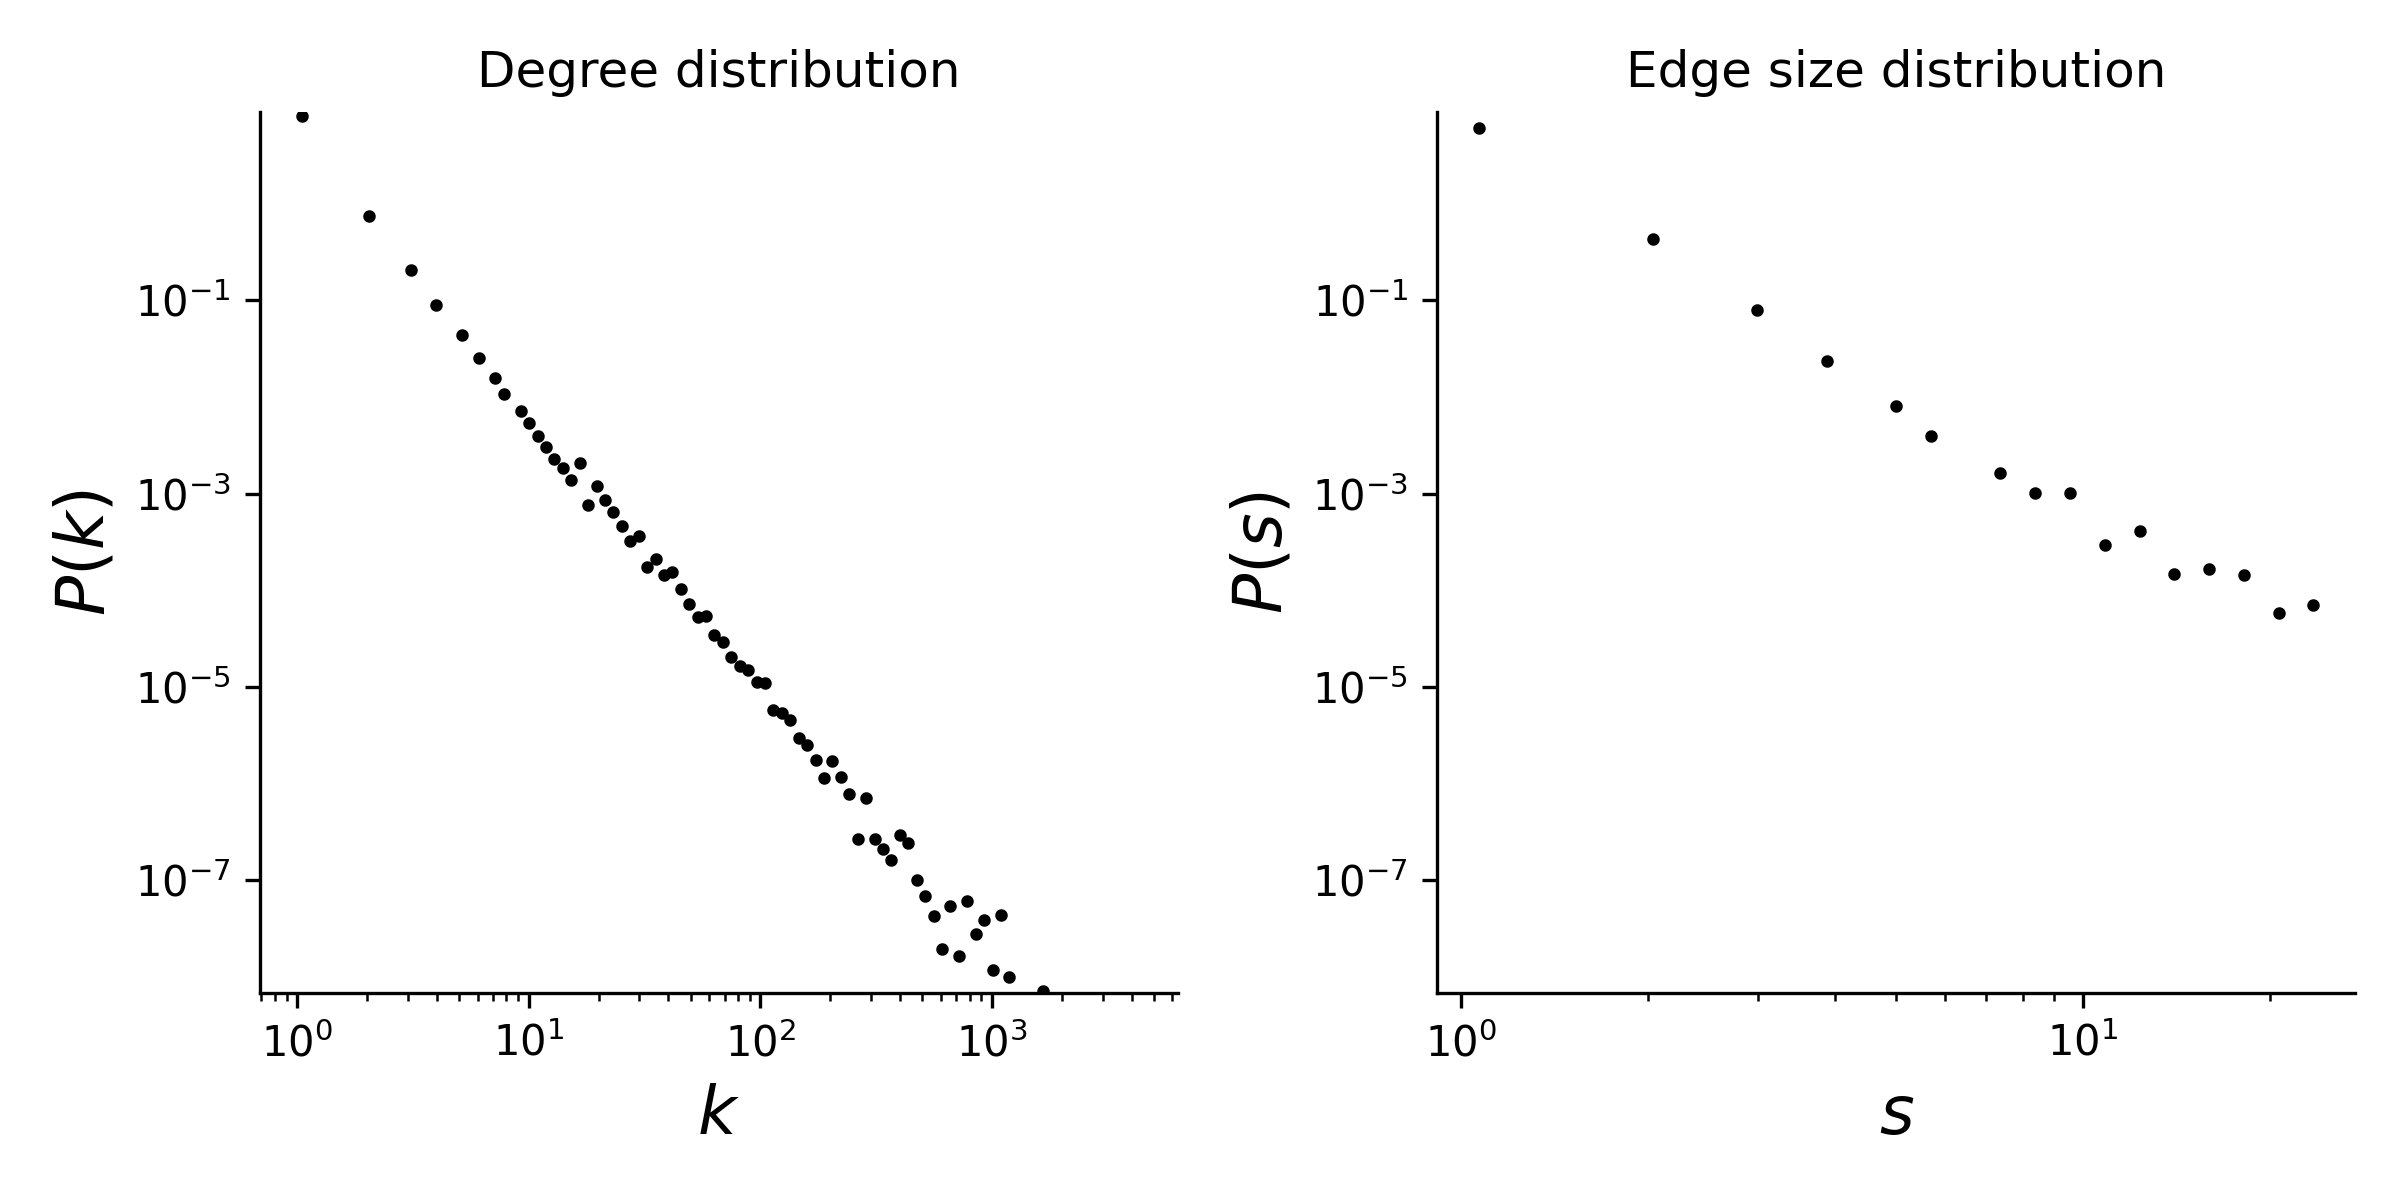
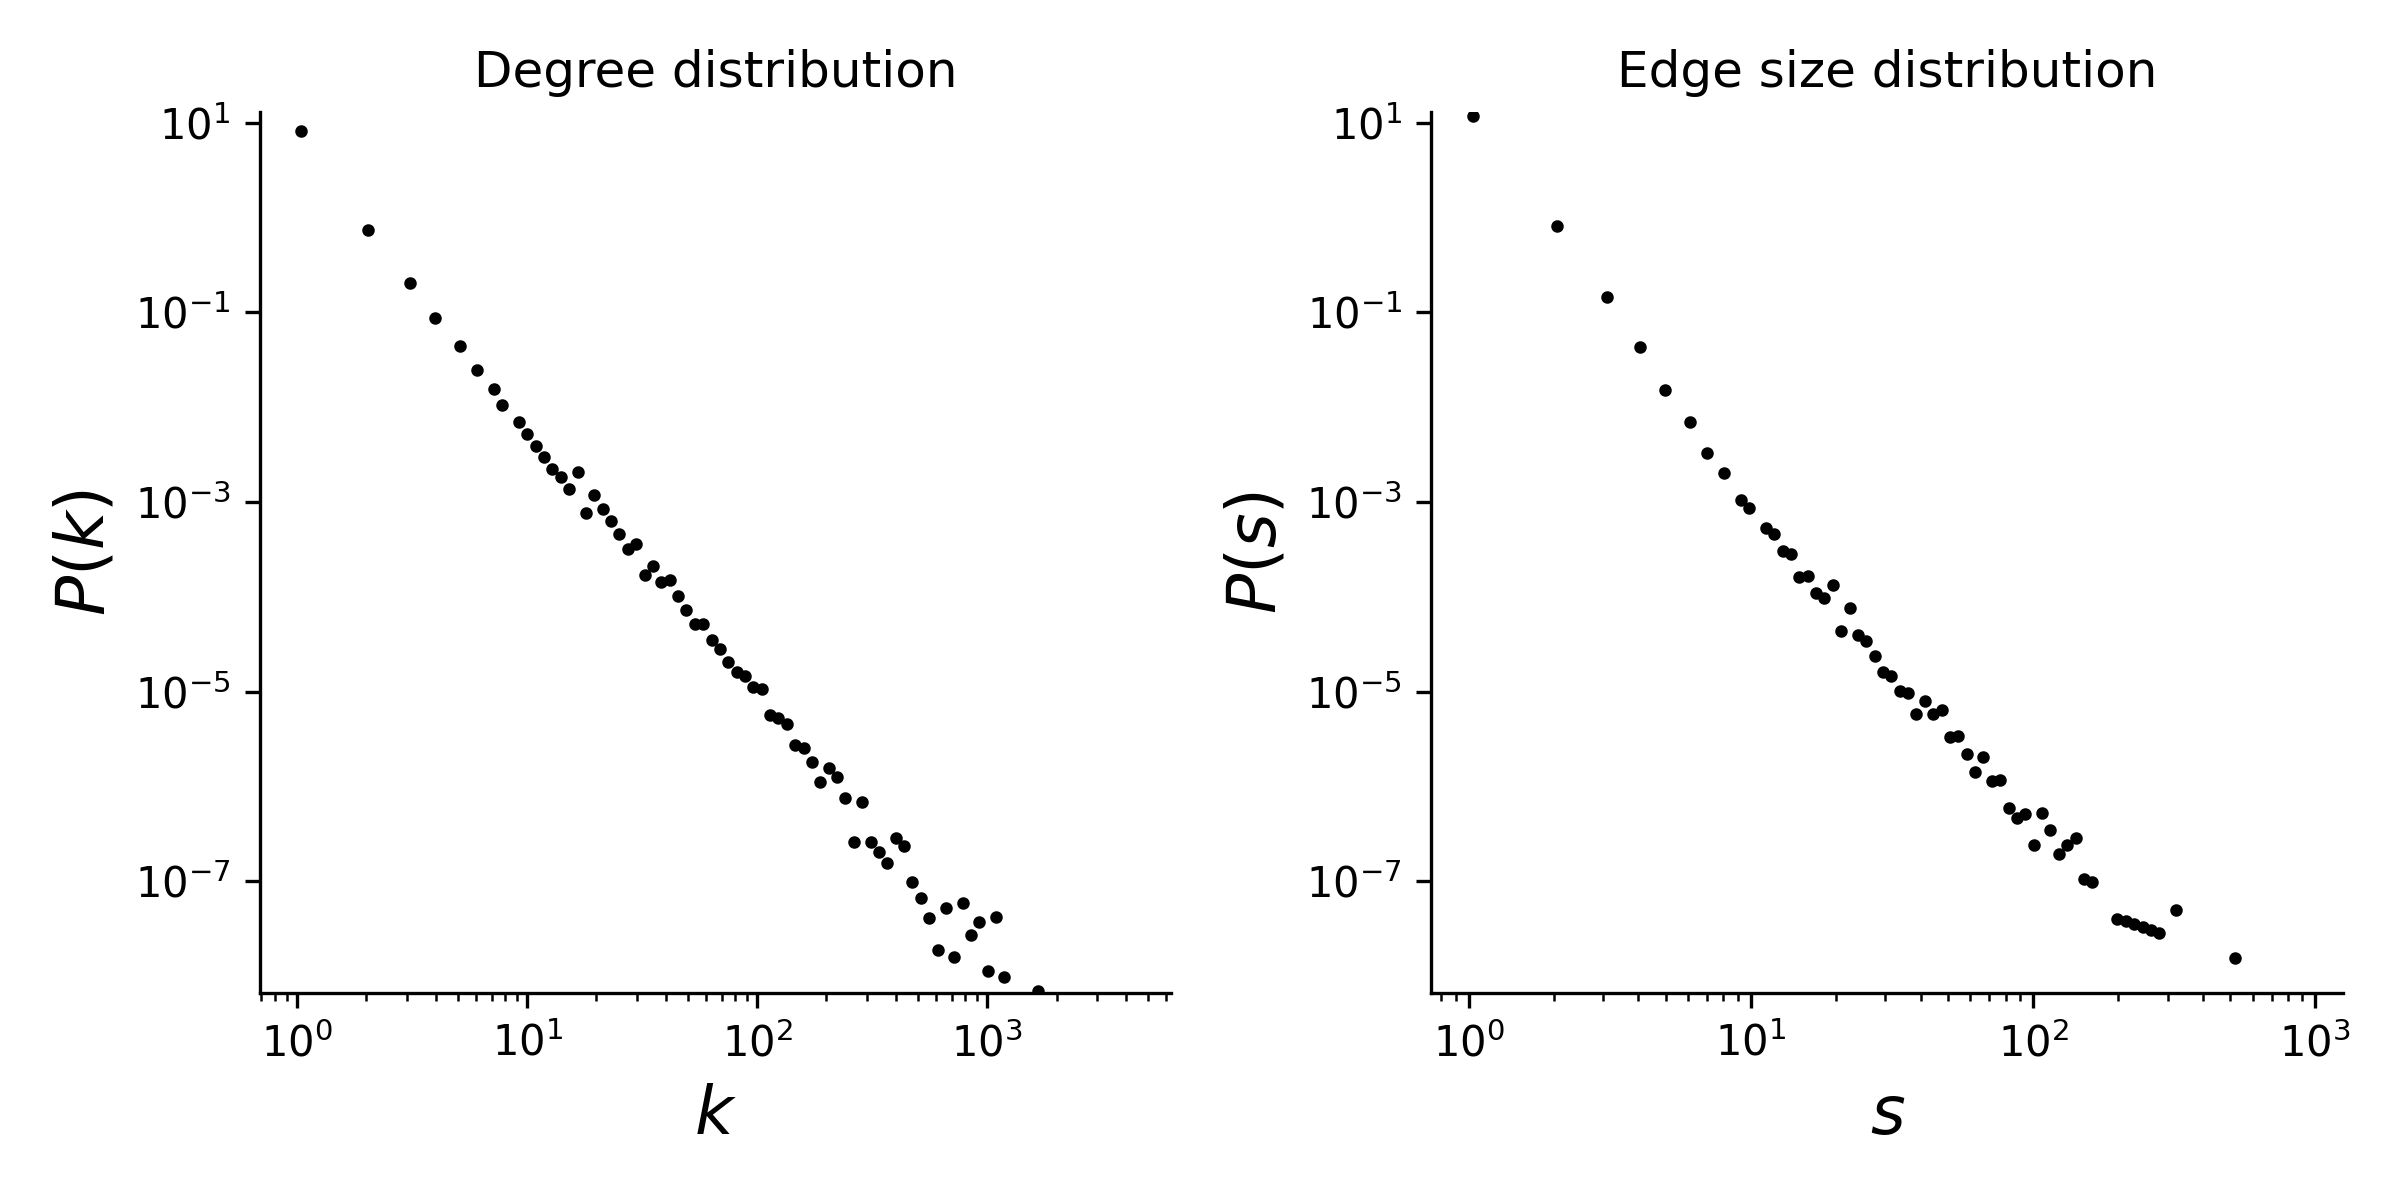
Update datasets (#22)
* update scripts

* update urls

* remove size restriction for datasets

* Update get_stats.ipynb

diff --git a/code/import_congress-bills.py b/code/import_congress-bills.py
@@ -5,13 +5,15 @@ import xgi
 
 data_folder = "data"
 
-dataset_name = "congress-bills"
+dataset_name = "congress-bills-full"
 
-dataset_folder = "congress-bills"
-size_file = "congress-bills-full-nverts.txt"
-member_file = "congress-bills-full-simplices.txt"
-labels_file = "congress-bills-full-node-labels.txt"
-times_file = "congress-bills-full-times.txt"
+new_dataset_name = "congress-bills"
+
+dataset_folder = "congress-bills-full"
+size_file = f"{dataset_name}-nverts.txt"
+member_file = f"{dataset_name}-simplices.txt"
+labels_file = f"{dataset_name}-node-labels.txt"
+times_file = f"{dataset_name}-times.txt"
 
 hyperedge_size_file = os.path.join(data_folder, dataset_folder, size_file)
 member_ID_file = os.path.join(data_folder, dataset_folder, member_file)
@@ -21,7 +23,7 @@ edge_times_file = os.path.join(data_folder, dataset_folder, times_file)
 edgelist = utilities.readScHoLPData(hyperedge_size_file, member_ID_file)
 
 H = xgi.Hypergraph(edgelist)
-H["name"] = "congress-bills"
+H["name"] = new_dataset_name
 
 delimiter = "\t"
 
@@ -37,4 +39,4 @@ for label, date in edge_times.items():
     H.edges[label].update({"timestamp": date})
 
 
-xgi.write_json(H, os.path.join(data_folder, dataset_folder, f"{dataset_name}.json"))
+xgi.write_json(H, os.path.join(data_folder, dataset_folder, f"{new_dataset_name}.json"))

diff --git a/code/import_NDC-substances.py b/code/import_NDC-substances.py
@@ -5,11 +5,14 @@ import xgi
 
 data_folder = "data"
 
-dataset_folder = "NDC-substances"
-size_file = "NDC-substances-nverts.txt"
-member_file = "NDC-substances-simplices.txt"
-labels_file = "NDC-substances-node-labels.txt"
-times_file = "NDC-substances-times.txt"
+dataset_name = "NDC-substances-full"
+new_dataset_name = "NDC-substances"
+
+dataset_folder = "NDC-substances-full"
+size_file = f"{dataset_name}-nverts.txt"
+member_file = f"{dataset_name}-simplices.txt"
+labels_file = f"{dataset_name}-node-labels.txt"
+times_file = f"{dataset_name}-times.txt"
 
 hyperedge_size_file = os.path.join(data_folder, dataset_folder, size_file)
 member_ID_file = os.path.join(data_folder, dataset_folder, member_file)
@@ -19,7 +22,7 @@ edge_times_file = os.path.join(data_folder, dataset_folder, times_file)
 edgelist = utilities.readScHoLPData(hyperedge_size_file, member_ID_file)
 
 H = xgi.Hypergraph(edgelist)
-H["name"] = "NDC-substances"
+H["name"] = new_dataset_name
 
 delimiter = " "
 
@@ -31,4 +34,4 @@ for label, name in node_labels.items():
     H.nodes[label].update({"name": name})
 
 
-xgi.write_json(H, os.path.join(data_folder, dataset_folder, "NDC-substances.json"))
+xgi.write_json(H, os.path.join(data_folder, dataset_folder, f"{new_dataset_name}.json"))

diff --git a/code/import_coauth-MAG-Geology.py b/code/import_coauth-MAG-Geology.py
@@ -6,9 +6,11 @@ import xgi
 
 data_folder = "data"
 
-dataset_name = "coauth-MAG-Geology"
+dataset_name = "coauth-MAG-Geology-full"
 
-dataset_folder = "coauth-MAG-Geology"
+new_dataset_name = "coauth-MAG-Geology"
+
+dataset_folder = "coauth-MAG-Geology-full"
 size_file = f"{dataset_name}-nverts.txt"
 member_file = f"{dataset_name}-simplices.txt"
 n_labels_file = f"{dataset_name}-node-labels.txt"
@@ -23,14 +25,12 @@ edge_times_file = os.path.join(data_folder, dataset_folder, times_file)
 edgelist = utilities.readScHoLPData(hyperedge_size_file, member_ID_file)
 
 H = xgi.Hypergraph(edgelist)
-H["name"] = dataset_name
+H["name"] = new_dataset_name
 
 delimiter = " "
 
 node_labels = utilities.readScHoLPLabels(node_labels_file, delimiter)
-times = np.loadtxt(
-    edge_times_file
-)  # utilities.read_SCHOLP_dates(edge_times_file, time_unit="milliseconds")
+times = np.loadtxt(edge_times_file)
 
 H.add_nodes_from(list(node_labels.keys()))
 
@@ -41,4 +41,4 @@ for label, date in enumerate(times):
     H.edges[label].update({"timestamp": int(date)})
 
 
-xgi.write_json(H, os.path.join(data_folder, dataset_folder, f"{dataset_name}.json"))
+xgi.write_json(H, os.path.join(data_folder, dataset_folder, f"{new_dataset_name}.json"))

diff --git a/code/import_coauth-MAG-History.py b/code/import_coauth-MAG-History.py
@@ -5,9 +5,11 @@ import xgi
 
 data_folder = "data"
 
-dataset_name = "coauth-MAG-History"
+dataset_name = "coauth-MAG-History-full"
 
-dataset_folder = "coauth-MAG-History"
+new_dataset_name = "coauth-MAG-History"
+
+dataset_folder = "coauth-MAG-History-full"
 size_file = f"{dataset_name}-nverts.txt"
 member_file = f"{dataset_name}-simplices.txt"
 n_labels_file = f"{dataset_name}-node-labels.txt"
@@ -22,7 +24,7 @@ edge_times_file = os.path.join(data_folder, dataset_folder, times_file)
 edgelist = utilities.readScHoLPData(hyperedge_size_file, member_ID_file)
 
 H = xgi.Hypergraph(edgelist)
-H["name"] = dataset_name
+H["name"] = new_dataset_name
 
 delimiter = " "
 
@@ -38,4 +40,4 @@ for label, date in edge_times.items():
     H.edges[label].update({"timestamp": date})
 
 
-xgi.write_json(H, os.path.join(data_folder, dataset_folder, f"{dataset_name}.json"))
+xgi.write_json(H, os.path.join(data_folder, dataset_folder, f"{new_dataset_name}.json"))

diff --git a/README.md b/README.md
@@ -1,6 +1,6 @@
 # XGI-DATA
  
-This is a repository of openly available hypergraph datasets in JSON format with documentation more extensively describing the datasets. They are hosted in the [XGI Community](https://zenodo.org/communities/xgi) on Zenodo. There is also a rudimentary inspection script for checking that datasets are in the proper format. This is loosely inspired by [Datasheets for Datasets](https://arxiv.org/abs/1803.09010) by Gebru et al.
+This is a repository of openly available hypergraph datasets in JSON format with documentation more extensively describing the datasets. They are hosted in the [XGI Community](https://zenodo.org/communities/xgi) on Zenodo and a table of statistics can be found on [Read The Docs](https://xgi.readthedocs.io/en/stable/xgi-data.html). There is also a rudimentary inspection script for checking that datasets are in the proper format. This is loosely inspired by [Datasheets for Datasets](https://arxiv.org/abs/1803.09010) by Gebru et al.
 
 ## Overview of the xgi-data format
 The xgi-data format for hypergraph data sets is a JSON data structure with the following structure:
